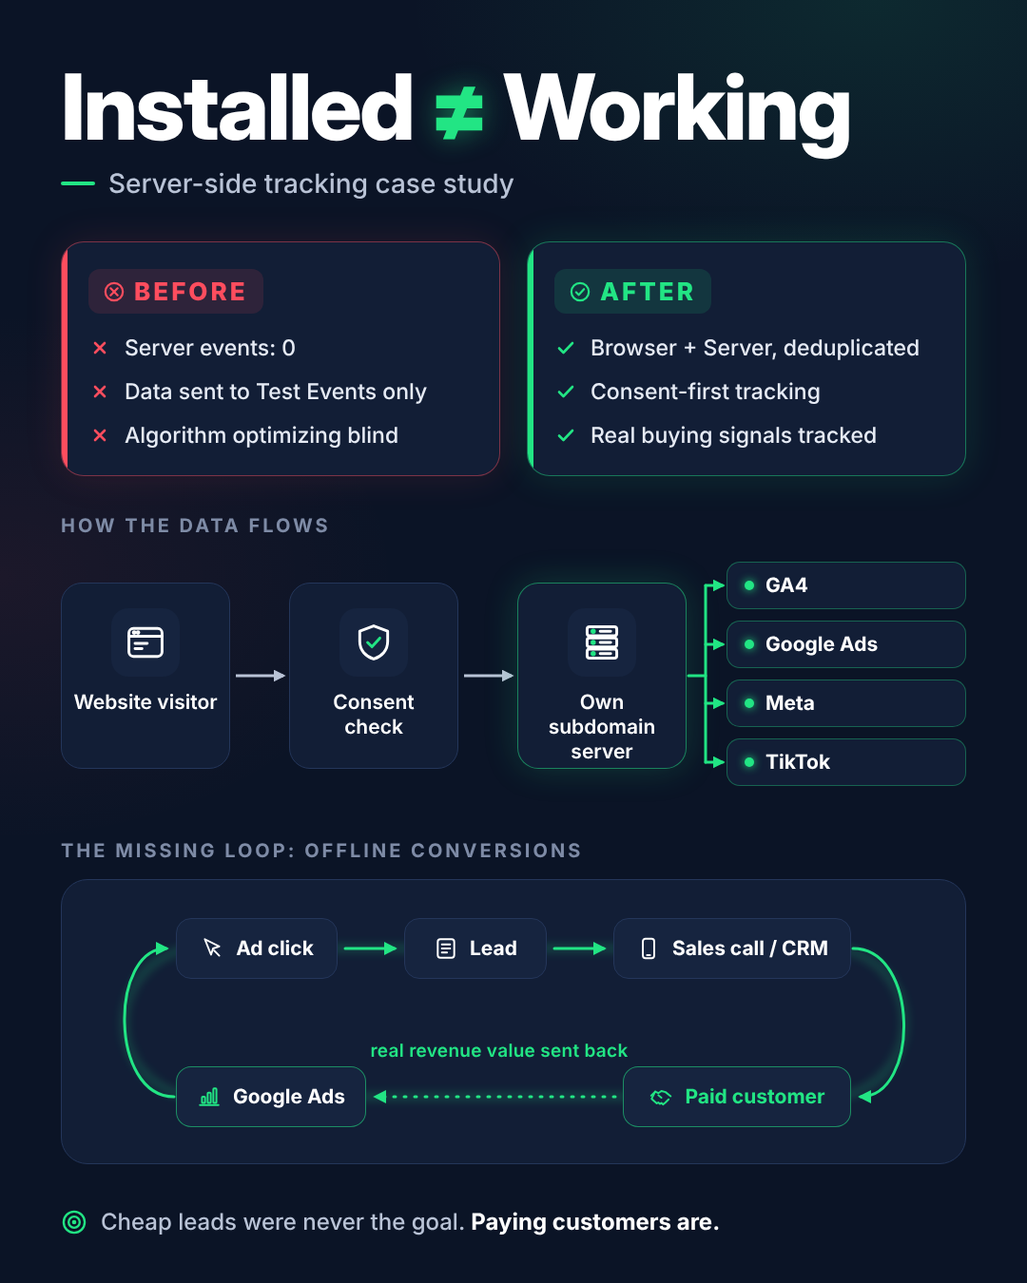
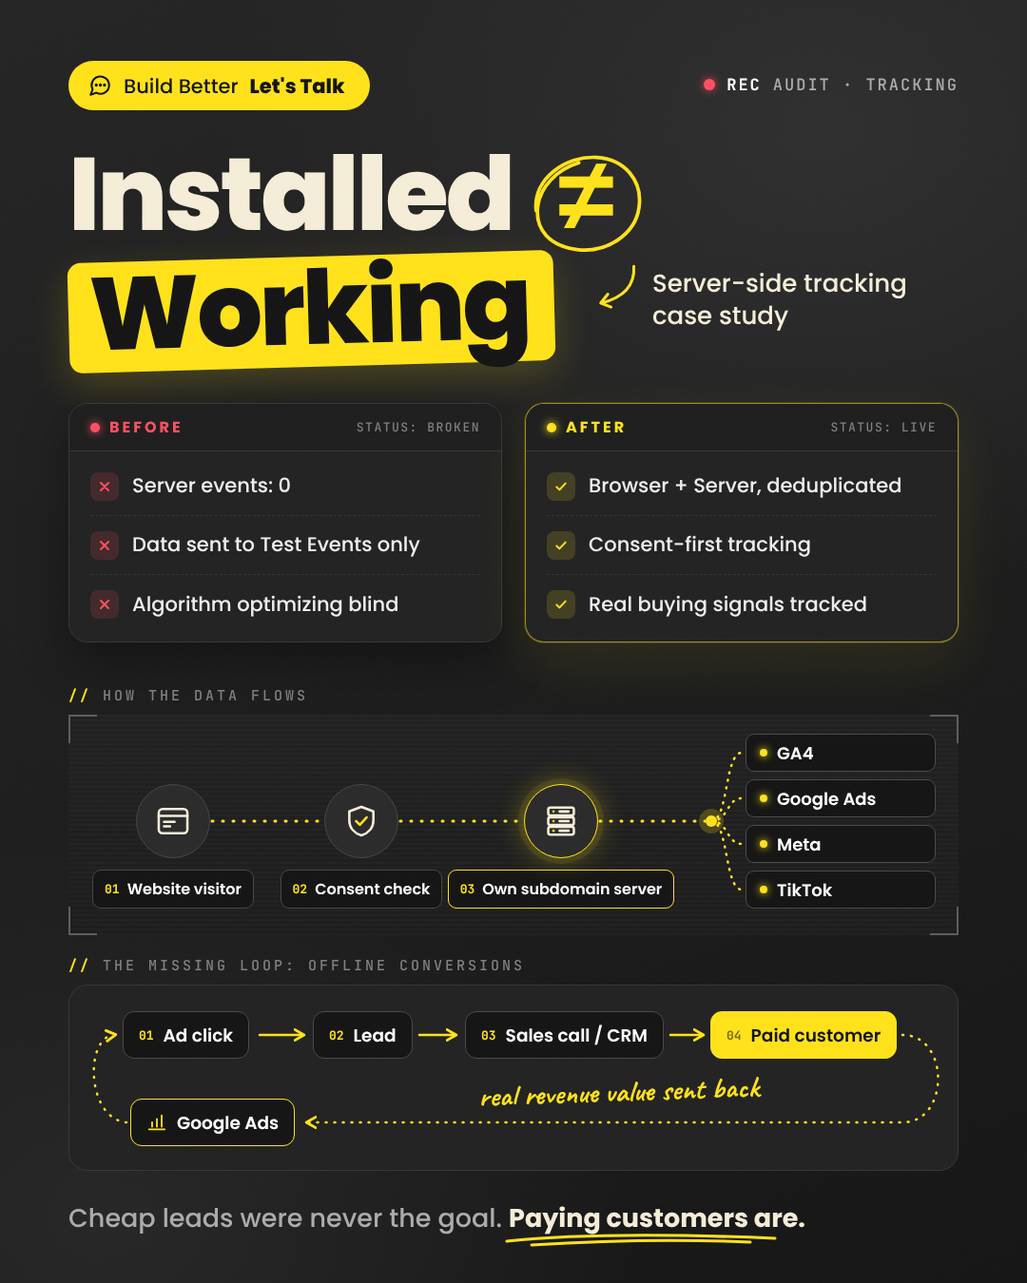
Restyle Installed != Working infographic to charcoal + yellow brand style, add 2x export
Claude-Session: https://claude.ai/code/session_01Q97kAqV9kMzVpsoxp7brzG

diff --git a/infographics/installed-not-working/index.html b/infographics/installed-not-working/index.html
@@ -1,121 +1,140 @@
 <!doctype html>
 <html><head><meta charset="utf-8"><title>Installed Not Working</title>
+<link href="https://fonts.googleapis.com/css2?family=Poppins:wght@400;500;600;700;800&family=JetBrains+Mono:wght@500;700&family=Caveat:wght@600;700&display=swap" rel="stylesheet">
 <style>
-:root{--bg:#0B1426;--card:#121E36;--card2:#16243F;--line:#24365A;--w:#FFFFFF;--g:#B9C3D6;--dim:#7E8BA6;--ok:#22E584;--bad:#FF4D5E}
+:root{--bg:#1A1A1A;--panel:#222222;--panel2:#2A2A2A;--line:#363636;--cream:#F4ECD6;--w:#FFFFFF;--g:#A8A8A8;--dim:#7A7A7A;--y:#FFE11A;--red:#FF4D5E}
 *{box-sizing:border-box;margin:0;padding:0}
-html,body{width:1080px;height:1350px;background:var(--bg);overflow:hidden}
-body{font-family:Inter,"Inter Display",sans-serif;color:var(--w);position:relative;
- background:radial-gradient(700px 420px at 85% 0%,rgba(34,229,132,.10),transparent 70%),radial-gradient(600px 400px at 0% 45%,rgba(255,77,94,.07),transparent 70%),var(--bg)}
-.wrap{position:absolute;inset:0;padding:64px 64px 0}
-h1{font-family:"Inter Display",Inter,sans-serif;font-weight:800;font-size:96px;letter-spacing:-2.5px;line-height:1}
-h1 .ne{color:var(--ok);text-shadow:0 0 28px rgba(34,229,132,.45)}
-.sub{margin-top:16px;font-size:28px;color:var(--g);font-weight:500;display:flex;align-items:center;gap:14px}
-.sub i{display:inline-block;width:36px;height:4px;border-radius:2px;background:var(--ok)}
-.cards{margin-top:44px;display:grid;grid-template-columns:1fr 1fr;gap:28px}
-.card{background:var(--card);border:1.5px solid var(--line);border-radius:24px;padding:28px 28px 26px;position:relative;overflow:hidden}
-.card.bad{border-color:rgba(255,77,94,.45);box-shadow:0 0 40px rgba(255,77,94,.12)}
-.card.ok{border-color:rgba(34,229,132,.45);box-shadow:0 0 40px rgba(34,229,132,.14)}
-.card::before{content:"";position:absolute;left:0;top:0;bottom:0;width:6px}
-.card.bad::before{background:var(--bad)}.card.ok::before{background:var(--ok)}
-.tag{display:inline-flex;align-items:center;gap:10px;font-weight:800;font-size:26px;letter-spacing:3px;padding:8px 16px;border-radius:12px}
-.bad .tag{color:var(--bad);background:rgba(255,77,94,.12)}.ok .tag{color:var(--ok);background:rgba(34,229,132,.12)}
-.card ul{list-style:none;margin-top:22px;display:flex;flex-direction:column;gap:16px}
-.card li{display:flex;gap:14px;align-items:flex-start;font-size:23px;line-height:1.3;color:#E6EBF5;font-weight:500}
-.card li svg{flex:none;margin-top:2px}
-.sec{margin-top:40px;font-size:20px;font-weight:700;letter-spacing:3px;color:var(--dim);text-transform:uppercase}
-.flow{margin-top:18px;height:260px;position:relative}
-.node{position:absolute;top:30px;width:178px;height:196px;background:var(--card);border:1.5px solid var(--line);border-radius:22px;display:flex;flex-direction:column;align-items:center;justify-content:flex-start;padding-top:26px!important;gap:14px;text-align:center;font-size:21px;font-weight:600;line-height:1.25;padding:0 12px}
-.node .ic{width:72px;height:72px;border-radius:18px;background:var(--card2);display:flex;align-items:center;justify-content:center}
-.node.srv{border-color:rgba(34,229,132,.5);box-shadow:0 0 36px rgba(34,229,132,.18)}
-.dest{position:absolute;left:700px;width:252px;height:50px;background:var(--card);border:1.5px solid rgba(34,229,132,.35);border-radius:14px;display:flex;align-items:center;padding-left:18px;gap:12px;font-size:21px;font-weight:700}
-.dest b{width:10px;height:10px;border-radius:50%;background:var(--ok);box-shadow:0 0 10px var(--ok)}
-svg.ov{position:absolute;inset:0;overflow:visible}
-.loop{margin-top:18px;height:300px;position:relative;background:var(--card);border:1.5px solid var(--line);border-radius:28px}
-.ln{position:absolute;justify-content:center;height:64px;background:var(--card2);border:1.5px solid var(--line);border-radius:16px;display:flex;align-items:center;gap:12px;padding:0 18px;font-size:21px;font-weight:700;white-space:nowrap}
-.ln.pay{border-color:rgba(34,229,132,.55);color:var(--ok)}
-.ln.gads{border-color:rgba(34,229,132,.55)}
-.back{position:absolute;font-size:19px;font-weight:600;color:var(--ok);background:var(--card);padding:0 12px;letter-spacing:.3px}
-.foot{position:absolute;left:64px;right:64px;bottom:50px;font-size:24px;color:var(--g);font-weight:500;display:flex;align-items:center;gap:14px}
-.foot strong{color:var(--w);font-weight:700}
-</style></head><body><div class="wrap">
+html,body{width:1080px;height:1350px;overflow:hidden;background:var(--bg)}
+body{font-family:Poppins,sans-serif;color:var(--w);position:relative;
+ background:radial-gradient(900px 700px at 80% 10%,#2E2E2E 0%,transparent 70%),radial-gradient(800px 600px at 10% 95%,#262626 0%,transparent 70%),linear-gradient(160deg,#242424,#161616)}
+.grain{position:absolute;inset:0;pointer-events:none;opacity:.09;mix-blend-mode:overlay;z-index:50}
+.mono{font-family:"JetBrains Mono",monospace}
+.hand{font-family:Caveat,cursive}
+.abs{position:absolute}
 
-<h1>Installed <span class="ne">≠</span> Working</h1>
-<div class="sub"><i></i>Server-side tracking case study</div>
+/* top */
+.pill{left:72px;top:64px;height:52px;padding:0 26px 0 20px;border-radius:26px;background:var(--y);color:#141414;display:flex;align-items:center;gap:12px;font-size:21px;font-weight:500}
+.pill b{font-weight:800}
+.rec{right:72px;top:78px;display:flex;align-items:center;gap:12px;font-size:17px;color:var(--g);letter-spacing:2px}
+.rec i{width:12px;height:12px;border-radius:50%;background:var(--red);box-shadow:0 0 10px rgba(255,77,94,.8)}
+.rec b{color:var(--w);font-weight:700}
 
-<div class="cards">
- <div class="card bad">
-  <span class="tag"><svg width="22" height="22" viewBox="0 0 24 24"><circle cx="12" cy="12" r="10" fill="none" stroke="#FF4D5E" stroke-width="2.4"/><path d="M8 8l8 8M16 8l-8 8" stroke="#FF4D5E" stroke-width="2.4" stroke-linecap="round"/></svg>BEFORE</span>
+/* headline */
+h1{left:72px;top:150px;font-weight:800;font-size:108px;line-height:1.02;letter-spacing:-3px;color:var(--cream)}
+h1 .neq{position:relative;display:inline-block;color:var(--y);margin-left:30px}
+h1 .neq svg{position:absolute;left:-40px;top:-4px;width:140px}
+h1 .hl{display:inline-block;background:var(--y);color:#151515;padding:0 26px 6px 22px;border-radius:14px;transform:rotate(-1.6deg);margin-top:10px;box-shadow:0 14px 40px rgba(255,225,26,.18)}
+.sub{left:620px;top:282px;display:flex;align-items:flex-start;gap:12px;font-size:26px;line-height:1.3;color:var(--cream);font-weight:500;width:400px}
+.sub svg{margin-top:-2px;flex:none;transform:scaleX(-1) rotate(10deg)}
+
+/* before after */
+.ba{left:72px;top:424px;width:936px;display:grid;grid-template-columns:1fr 1fr;gap:24px}
+.p{background:var(--panel);border:1px solid var(--line);border-radius:20px;overflow:hidden;box-shadow:0 20px 50px rgba(0,0,0,.35)}
+.p .bar{height:50px;display:flex;align-items:center;justify-content:space-between;padding:0 22px;border-bottom:1px solid var(--line);background:#1E1E1E}
+.p .bar .t{display:flex;align-items:center;gap:10px;font-weight:700;font-size:16px;letter-spacing:3px}
+.p .bar .d{width:10px;height:10px;border-radius:50%}
+.p .bar .st{font-size:13px;color:var(--dim);letter-spacing:1.5px}
+.p.b .t{color:var(--red)} .p.b .d{background:var(--red);box-shadow:0 0 10px var(--red)}
+.p.a{border-color:rgba(255,225,26,.55);box-shadow:0 0 0 1px rgba(255,225,26,.12),0 20px 60px rgba(255,225,26,.08)}
+.p.a .t{color:var(--y)} .p.a .d{background:var(--y);box-shadow:0 0 10px var(--y)}
+.p ul{list-style:none;padding:6px 22px 8px}
+.p li{display:flex;align-items:center;gap:14px;min-height:62px;border-bottom:1px dashed #333;font-size:21px;font-weight:500;color:#EDEDED;line-height:1.25}
+.p li:last-child{border-bottom:none}
+.p li .ic{flex:none;width:30px;height:30px;border-radius:8px;display:flex;align-items:center;justify-content:center}
+.p.b li .ic{background:rgba(255,77,94,.14)} .p.a li .ic{background:rgba(255,225,26,.14)}
+
+/* flow frame */
+.label{font-size:15px;letter-spacing:3px;color:var(--dim)}
+.label b{color:var(--y);font-weight:700}
+.frame{left:72px;top:752px;width:936px;height:232px;border-radius:6px;
+ background:repeating-linear-gradient(0deg,rgba(255,255,255,.018) 0 2px,transparent 2px 5px),linear-gradient(180deg,#202020,#1C1C1C)}
+.corner{position:absolute;width:30px;height:30px;border-color:#5A5A5A;border-style:solid}
+.node{position:absolute;display:flex;flex-direction:column;align-items:center;gap:12px}
+.flowlbl{position:absolute;left:24px;top:20px;font-size:13px;letter-spacing:2px;color:#6A6A6A}
+.node .c{width:78px;height:78px;border-radius:50%;background:#2A2A2A;border:1.5px solid #444;display:flex;align-items:center;justify-content:center;position:relative}
+.node .c.on{border-color:var(--y);box-shadow:0 0 0 6px rgba(255,225,26,.08),0 0 30px rgba(255,225,26,.35)}
+.chip{background:#151515;border:1px solid #444;border-radius:9px;padding:7px 12px;font-size:16px;font-weight:600;white-space:nowrap;display:flex;gap:8px;align-items:center}
+.chip .n{font-family:"JetBrains Mono",monospace;font-size:13px;color:var(--y);font-weight:700}
+.dest{position:absolute;left:712px;width:200px;height:40px;background:#151515;border:1px solid #474747;border-radius:9px;display:flex;align-items:center;gap:10px;padding-left:14px;font-size:18px;font-weight:600}
+.dest i{width:8px;height:8px;border-radius:50%;background:var(--y);box-shadow:0 0 8px var(--y)}
+
+/* loop */
+.loopf{left:72px;top:1036px;width:936px;height:196px;background:var(--panel);border:1px solid var(--line);border-radius:20px}
+.ln{position:absolute;height:50px;background:#151515;border:1px solid #474747;border-radius:12px;display:flex;align-items:center;gap:10px;padding:0 16px;font-size:18.5px;font-weight:600;white-space:nowrap}
+.ln .n{font-family:"JetBrains Mono",monospace;font-size:13px;color:var(--y);font-weight:700}
+.ln.y{background:var(--y);color:#141414;border-color:var(--y)}
+.ln.y .n{color:#141414;opacity:.6}
+.note{font-size:31px;font-weight:700;color:var(--y);transform:rotate(-2deg);white-space:nowrap}
+
+.foot{left:72px;top:1262px;font-size:27px;font-weight:500;color:var(--g)}
+.foot b{color:var(--cream);font-weight:700;position:relative}
+.foot b svg{position:absolute;left:-6px;bottom:-14px}
+</style></head><body>
+<svg class="grain" width="1080" height="1350"><filter id="n"><feTurbulence type="fractalNoise" baseFrequency=".85" numOctaves="3" stitchTiles="stitch"/><feColorMatrix values="0 0 0 0 1 0 0 0 0 1 0 0 0 0 1 0 0 0 1 0"/></filter><rect width="100%" height="100%" filter="url(#n)"/></svg>
+
+<div class="abs pill"><svg width="26" height="26" viewBox="0 0 24 24" fill="none" stroke="#141414" stroke-width="1.9" stroke-linecap="round" stroke-linejoin="round"><path d="M21 11.5a8.4 8.4 0 0 1-12.3 7.5L3 21l2-5.3A8.5 8.5 0 1 1 21 11.5z"/><circle cx="8.5" cy="11.5" r=".6" fill="#141414"/><circle cx="12.5" cy="11.5" r=".6" fill="#141414"/><circle cx="16.5" cy="11.5" r=".6" fill="#141414"/></svg>Build Better <b>Let's Talk</b></div>
+<div class="abs rec mono"><i></i><b>REC</b> AUDIT · TRACKING</div>
+
+<h1 class="abs">Installed <span class="neq">≠<svg width="150" height="140" viewBox="0 0 150 140" fill="none"><path d="M18 76C14 40 52 14 86 16c32 2 52 26 48 56-4 32-38 52-70 48C34 116 16 98 20 70c3-20 20-40 46-48" stroke="#FFE11A" stroke-width="4" stroke-linecap="round"/></svg></span><br><span class="hl">Working</span></h1>
+
+<div class="abs sub"><svg width="54" height="44" viewBox="0 0 54 44" fill="none" stroke="#FFE11A" stroke-width="3" stroke-linecap="round" stroke-linejoin="round"><path d="M4 4c2 18 14 30 40 32"/><path d="M36 28l9 8-10 6"/></svg><span>Server-side tracking<br>case study</span></div>
+
+<div class="abs ba">
+ <div class="p b">
+  <div class="bar"><span class="t"><span class="d"></span>BEFORE</span><span class="st mono">STATUS: BROKEN</span></div>
   <ul>
-   <li><svg width="24" height="24" viewBox="0 0 24 24"><path d="M7 7l10 10M17 7L7 17" stroke="#FF4D5E" stroke-width="2.6" stroke-linecap="round"/></svg>Server events: 0</li>
-   <li><svg width="24" height="24" viewBox="0 0 24 24"><path d="M7 7l10 10M17 7L7 17" stroke="#FF4D5E" stroke-width="2.6" stroke-linecap="round"/></svg>Data sent to Test Events only</li>
-   <li><svg width="24" height="24" viewBox="0 0 24 24"><path d="M7 7l10 10M17 7L7 17" stroke="#FF4D5E" stroke-width="2.6" stroke-linecap="round"/></svg>Algorithm optimizing blind</li>
+   <li><span class="ic"><svg width="16" height="16" viewBox="0 0 24 24"><path d="M6 6l12 12M18 6L6 18" stroke="#FF4D5E" stroke-width="3" stroke-linecap="round"/></svg></span>Server events: 0</li>
+   <li><span class="ic"><svg width="16" height="16" viewBox="0 0 24 24"><path d="M6 6l12 12M18 6L6 18" stroke="#FF4D5E" stroke-width="3" stroke-linecap="round"/></svg></span>Data sent to Test Events only</li>
+   <li><span class="ic"><svg width="16" height="16" viewBox="0 0 24 24"><path d="M6 6l12 12M18 6L6 18" stroke="#FF4D5E" stroke-width="3" stroke-linecap="round"/></svg></span>Algorithm optimizing blind</li>
   </ul>
  </div>
- <div class="card ok">
-  <span class="tag"><svg width="22" height="22" viewBox="0 0 24 24"><circle cx="12" cy="12" r="10" fill="none" stroke="#22E584" stroke-width="2.4"/><path d="M7.5 12.5l3 3 6-6.5" fill="none" stroke="#22E584" stroke-width="2.4" stroke-linecap="round" stroke-linejoin="round"/></svg>AFTER</span>
+ <div class="p a">
+  <div class="bar"><span class="t"><span class="d"></span>AFTER</span><span class="st mono">STATUS: LIVE</span></div>
   <ul>
-   <li><svg width="24" height="24" viewBox="0 0 24 24"><path d="M5 12.5l4.5 4.5L19 7" fill="none" stroke="#22E584" stroke-width="2.6" stroke-linecap="round" stroke-linejoin="round"/></svg>Browser + Server, deduplicated</li>
-   <li><svg width="24" height="24" viewBox="0 0 24 24"><path d="M5 12.5l4.5 4.5L19 7" fill="none" stroke="#22E584" stroke-width="2.6" stroke-linecap="round" stroke-linejoin="round"/></svg>Consent-first tracking</li>
-   <li><svg width="24" height="24" viewBox="0 0 24 24"><path d="M5 12.5l4.5 4.5L19 7" fill="none" stroke="#22E584" stroke-width="2.6" stroke-linecap="round" stroke-linejoin="round"/></svg>Real buying signals tracked</li>
+   <li><span class="ic"><svg width="16" height="16" viewBox="0 0 24 24"><path d="M5 12.5l4.5 4.5L19 7" fill="none" stroke="#FFE11A" stroke-width="3" stroke-linecap="round" stroke-linejoin="round"/></svg></span>Browser + Server, deduplicated</li>
+   <li><span class="ic"><svg width="16" height="16" viewBox="0 0 24 24"><path d="M5 12.5l4.5 4.5L19 7" fill="none" stroke="#FFE11A" stroke-width="3" stroke-linecap="round" stroke-linejoin="round"/></svg></span>Consent-first tracking</li>
+   <li><span class="ic"><svg width="16" height="16" viewBox="0 0 24 24"><path d="M5 12.5l4.5 4.5L19 7" fill="none" stroke="#FFE11A" stroke-width="3" stroke-linecap="round" stroke-linejoin="round"/></svg></span>Real buying signals tracked</li>
   </ul>
  </div>
 </div>
 
-<div class="sec">How the data flows</div>
-<div class="flow">
- <svg class="ov" width="952" height="260">
-  <defs><marker id="ah" viewBox="0 0 10 10" refX="8" refY="5" markerUnits="userSpaceOnUse" markerWidth="13" markerHeight="13" orient="auto"><path d="M0 0L10 5L0 10z" fill="#B9C3D6"/></marker>
-  <marker id="ag" viewBox="0 0 10 10" refX="8" refY="5" markerUnits="userSpaceOnUse" markerWidth="13" markerHeight="13" orient="auto"><path d="M0 0L10 5L0 10z" fill="#22E584"/></marker></defs>
-  <path d="M184 128H234" stroke="#B9C3D6" stroke-width="3" marker-end="url(#ah)"/>
-  <path d="M424 128H474" stroke="#B9C3D6" stroke-width="3" marker-end="url(#ah)"/>
-  <g fill="none" stroke="#22E584" stroke-width="3" stroke-linecap="round" stroke-linejoin="round">
-   <path d="M660 128H678"/><path d="M678 33V219"/>
-   <path d="M678 33H696" marker-end="url(#ag)"/><path d="M678 95H696" marker-end="url(#ag)"/>
-   <path d="M678 157H696" marker-end="url(#ag)"/><path d="M678 219H696" marker-end="url(#ag)"/>
-  </g>
+<div class="abs label mono" style="left:72px;top:722px"><b>//</b> HOW THE DATA FLOWS</div>
+<div class="abs frame">
+ <span class="corner" style="left:0;top:0;border-width:2px 0 0 2px"></span><span class="corner" style="right:0;top:0;border-width:2px 2px 0 0"></span>
+ <span class="corner" style="left:0;bottom:0;border-width:0 0 2px 2px"></span><span class="corner" style="right:0;bottom:0;border-width:0 2px 2px 0"></span>
+ <svg class="abs" style="left:0;top:0" width="936" height="232" fill="none">
+  <path d="M151 112H267M349 112H477M559 112H676" stroke="#FFE11A" stroke-width="3" stroke-dasharray="1 10" stroke-linecap="round"/>
+  <path d="M676 112C694 112 690 40 708 40M676 112C694 112 692 88 708 88M676 112C694 112 692 136 708 136M676 112C694 112 690 184 708 184" stroke="#FFE11A" stroke-width="2.5" stroke-dasharray="1 7" stroke-linecap="round"/>
+  <circle cx="676" cy="112" r="6" fill="#FFE11A"/><circle cx="676" cy="112" r="13" fill="#FFE11A" opacity=".2"/>
  </svg>
- <div class="node" style="left:0">
-  <div class="ic"><svg width="44" height="44" viewBox="0 0 24 24" fill="none" stroke="#FFFFFF" stroke-width="1.6" stroke-linecap="round" stroke-linejoin="round"><rect x="2.5" y="4" width="19" height="16" rx="2.5"/><path d="M2.5 8.5h19"/><circle cx="5.5" cy="6.3" r=".5" fill="#fff"/><circle cx="7.7" cy="6.3" r=".5" fill="#fff"/><path d="M6 12.5h7M6 15.5h4"/></svg></div>
-  Website visitor</div>
- <div class="node" style="left:240px">
-  <div class="ic"><svg width="44" height="44" viewBox="0 0 24 24" fill="none" stroke="#FFFFFF" stroke-width="1.6" stroke-linecap="round" stroke-linejoin="round"><path d="M12 2.5l8 3v6c0 5-3.4 8.6-8 10-4.6-1.4-8-5-8-10v-6z"/><path d="M8.5 12l2.5 2.5 4.5-5" stroke="#22E584"/></svg></div>
-  Consent check</div>
- <div class="node srv" style="left:480px">
-  <div class="ic"><svg width="44" height="44" viewBox="0 0 24 24" fill="none" stroke="#FFFFFF" stroke-width="1.6" stroke-linecap="round" stroke-linejoin="round"><rect x="3.5" y="3" width="17" height="5.2" rx="1.4"/><rect x="3.5" y="9.4" width="17" height="5.2" rx="1.4"/><rect x="3.5" y="15.8" width="17" height="5.2" rx="1.4"/><circle cx="7" cy="5.6" r=".7" fill="#22E584" stroke="#22E584"/><circle cx="7" cy="12" r=".7" fill="#22E584" stroke="#22E584"/><circle cx="7" cy="18.4" r=".7" fill="#22E584" stroke="#22E584"/><path d="M11 5.6h6M11 12h6M11 18.4h6"/></svg></div>
-  Own subdomain server</div>
- <div class="dest" style="top:8px"><b></b>GA4</div>
- <div class="dest" style="top:70px"><b></b>Google Ads</div>
-  <div class="dest" style="top:132px"><b></b>Meta</div>
- <div class="dest" style="top:194px"><b></b>TikTok</div>
+ <div class="node" style="left:15px;top:73px;width:190px"><div class="c"><svg width="38" height="38" viewBox="0 0 24 24" fill="none" stroke="#F4ECD6" stroke-width="1.6" stroke-linecap="round" stroke-linejoin="round"><rect x="2.5" y="4" width="19" height="16" rx="2.5"/><path d="M2.5 8.5h19"/><path d="M6 12.5h7M6 15.5h4"/></svg></div><span class="chip"><span class="n">01</span>Website visitor</span></div>
+ <div class="node" style="left:213px;top:73px;width:190px"><div class="c"><svg width="38" height="38" viewBox="0 0 24 24" fill="none" stroke="#F4ECD6" stroke-width="1.6" stroke-linecap="round" stroke-linejoin="round"><path d="M12 2.5l8 3v6c0 5-3.4 8.6-8 10-4.6-1.4-8-5-8-10v-6z"/><path d="M8.5 12l2.5 2.5 4.5-5" stroke="#FFE11A"/></svg></div><span class="chip"><span class="n">02</span>Consent check</span></div>
+ <div class="node" style="left:398px;top:73px;width:240px"><div class="c on"><svg width="38" height="38" viewBox="0 0 24 24" fill="none" stroke="#F4ECD6" stroke-width="1.6" stroke-linecap="round" stroke-linejoin="round"><rect x="3.5" y="3" width="17" height="5.2" rx="1.4"/><rect x="3.5" y="9.4" width="17" height="5.2" rx="1.4"/><rect x="3.5" y="15.8" width="17" height="5.2" rx="1.4"/><circle cx="7" cy="5.6" r=".8" fill="#FFE11A" stroke="none"/><circle cx="7" cy="12" r=".8" fill="#FFE11A" stroke="none"/><circle cx="7" cy="18.4" r=".8" fill="#FFE11A" stroke="none"/><path d="M11 5.6h6M11 12h6M11 18.4h6"/></svg></div><span class="chip" style="border-color:#FFE11A"><span class="n">03</span>Own subdomain server</span></div>
+ <div class="dest" style="top:20px"><i></i>GA4</div>
+ <div class="dest" style="top:68px"><i></i>Google Ads</div>
+ <div class="dest" style="top:116px"><i></i>Meta</div>
+ <div class="dest" style="top:164px"><i></i>TikTok</div>
 </div>
 
-<div class="sec">The missing loop: Offline conversions</div>
-<div class="loop">
- <svg class="ov" width="952" height="300">
-  <defs><marker id="al" viewBox="0 0 10 10" refX="8" refY="5" markerUnits="userSpaceOnUse" markerWidth="14" markerHeight="14" orient="auto"><path d="M0 0L10 5L0 10z" fill="#22E584"/></marker>
-  <filter id="gl"><feGaussianBlur stdDeviation="4"/></filter></defs>
-  <rect x="66" y="72" width="820" height="156" rx="78" fill="none" stroke="#22E584" stroke-width="10" opacity=".16" filter="url(#gl)"/>
-  <g fill="none" stroke="#22E584" stroke-width="3" stroke-linecap="round">
-   <path d="M298 72H350" marker-end="url(#al)"/>
-   <path d="M518 72H570" marker-end="url(#al)"/>
-   <path d="M832 72C902 72 902 228 840 228" marker-end="url(#al)"/>
-   <path d="M582 228H330" stroke-dasharray="2 9" marker-end="url(#al)"/>
-   <path d="M118 228C50 228 50 72 110 72" marker-end="url(#al)"/>
+<div class="abs label mono" style="left:72px;top:1006px"><b>//</b> THE MISSING LOOP: OFFLINE CONVERSIONS</div>
+<div class="abs loopf">
+ <svg class="abs" style="left:0;top:0" width="936" height="196" fill="none">
+  <defs><marker id="m" viewBox="0 0 10 10" refX="6" refY="5" markerUnits="userSpaceOnUse" markerWidth="14" markerHeight="14" orient="auto"><path d="M1 1L8 5L1 9" fill="none" stroke="#FFE11A" stroke-width="2" stroke-linecap="round" stroke-linejoin="round"/></marker></defs>
+  <g stroke="#FFE11A" stroke-width="2.5" stroke-linecap="round">
+   <path d="M200 52H244" marker-end="url(#m)"/>
+   <path d="M368 52H404" marker-end="url(#m)"/>
+   <path d="M632 52H664" marker-end="url(#m)"/>
+   <path d="M876 52C926 52 926 144 876 144H252" marker-end="url(#m)" stroke-dasharray="1 8"/>
+   <path d="M60 144C18 140 16 56 46 52" marker-end="url(#m)" stroke-dasharray="1 8"/>
   </g>
  </svg>
- <div class="ln" style="left:120px;top:40px;width:170px">
-  <svg width="26" height="26" viewBox="0 0 24 24" fill="none" stroke="#fff" stroke-width="1.8" stroke-linecap="round" stroke-linejoin="round"><path d="M5 3l14 7-6 2-2 6z"/><path d="M14 14l5 5"/></svg>Ad click</div>
- <div class="ln" style="left:360px;top:40px;width:150px">
-  <svg width="26" height="26" viewBox="0 0 24 24" fill="none" stroke="#fff" stroke-width="1.8" stroke-linecap="round" stroke-linejoin="round"><rect x="4" y="3" width="16" height="18" rx="2.5"/><path d="M8 8h8M8 12h8M8 16h5"/></svg>Lead</div>
- <div class="ln" style="left:580px;top:40px;width:250px">
-  <svg width="26" height="26" viewBox="0 0 24 24" fill="none" stroke="#fff" stroke-width="1.8" stroke-linecap="round" stroke-linejoin="round"><rect x="6.5" y="2.5" width="11" height="19" rx="2.5"/><path d="M10.5 18.5h3"/></svg>Sales call / CRM</div>
- <div class="ln pay" style="left:590px;top:196px;width:240px">
-  <svg width="26" height="26" viewBox="0 0 24 24" fill="none" stroke="#22E584" stroke-width="1.8" stroke-linecap="round" stroke-linejoin="round"><path d="M2.5 11l4-4 3 1.5 3-2 4 1 5 4"/><path d="M6.5 7L3 14l5 4.5 1.5-1 1.5 1.5 1.5-1 1.5 1.5 2-1.5 3.5-3.5"/><path d="M9.5 10.5l3 2.5"/></svg>Paid customer</div>
- <div class="ln gads" style="left:120px;top:196px;width:200px">
-  <svg width="26" height="26" viewBox="0 0 24 24" fill="none" stroke="#22E584" stroke-width="1.8" stroke-linecap="round" stroke-linejoin="round"><path d="M3 20h18"/><rect x="5" y="12" width="3" height="6" rx=".8"/><rect x="10.5" y="8" width="3" height="10" rx=".8"/><rect x="16" y="4" width="3" height="14" rx=".8"/></svg>Google Ads</div>
- <div class="back" style="left:300px;top:168px;width:320px;text-align:center;white-space:nowrap;background:none">real revenue value sent back</div>
+ <div class="ln" style="left:56px;top:27px"><span class="n">01</span>Ad click</div>
+ <div class="ln" style="left:256px;top:27px"><span class="n">02</span>Lead</div>
+ <div class="ln" style="left:416px;top:27px"><span class="n">03</span>Sales call / CRM</div>
+ <div class="ln y" style="left:674px;top:27px"><span class="n">04</span>Paid customer</div>
+ <div class="ln" style="left:64px;top:119px;border-color:#FFE11A"><svg width="22" height="22" viewBox="0 0 24 24" fill="none" stroke="#FFE11A" stroke-width="2" stroke-linecap="round"><path d="M3 20h18"/><path d="M6.5 17v-5M12 17V8M17.5 17V4"/></svg>Google Ads</div>
+ <div class="abs note hand" style="left:430px;top:92px">real revenue value sent back</div>
 </div>
 
-</div>
-<div class="foot"><svg width="28" height="28" viewBox="0 0 24 24" fill="none" stroke="#22E584" stroke-width="2" stroke-linecap="round" stroke-linejoin="round"><circle cx="12" cy="12" r="9.5"/><circle cx="12" cy="12" r="5"/><circle cx="12" cy="12" r="1" fill="#22E584"/></svg><span>Cheap leads were never the goal. <strong>Paying customers are.</strong></span></div>
+<div class="abs foot">Cheap leads were never the goal. <b>Paying customers are.<svg width="290" height="20" viewBox="0 0 290 20" fill="none"><path d="M4 12C70 5 170 4 286 9M30 16c80-5 160-6 230-3" stroke="#FFE11A" stroke-width="3" stroke-linecap="round"/></svg></b></div>
 </body></html>

diff --git a/README.md b/README.md
@@ -20,6 +20,6 @@ Shakil's Claude + HyperFrames video editing workspace.
 
 | Folder | Type | Export |
 | --- | --- | --- |
-| `infographics/installed-not-working` | LinkedIn case-study infographic, 1080x1350 (HTML source) | `installed-not-working-1080x1350.png` |
+| `infographics/installed-not-working` | LinkedIn case-study infographic, 1080x1350 (HTML source) | `installed-not-working-1080x1350.png` + `@2x` (2160x2700), charcoal + yellow brand style |
 
 Each video folder has its own `README.md` with the exact rebuild commands.
